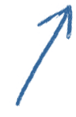
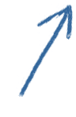
-

Changed region(s): [[0.1842, 0.7949, 0.3158, 0.9231]]

diff --git a/components/desktop.js b/components/desktop.js
@@ -25,6 +25,8 @@ define(['less!./desktop', 'pages/rental', 'pages/reservation'], function() {
 		var _rentals = {};
 		var _settings = {};
 		var _icons = {};
+		
+		var _timerForIntroBlob;
 
 		function updateUI() {
     		if (_setNeedsLayout)
@@ -215,7 +217,7 @@ define(['less!./desktop', 'pages/rental', 'pages/reservation'], function() {
 		    var defaults = {
     		    positions: {},
     		    orderAutomatically: false,
-    		    background: 'snow.png'
+    		    background: 'white-leather.png'
 		    };
 			
 			_settings = {};
@@ -365,12 +367,38 @@ define(['less!./desktop', 'pages/rental', 'pages/reservation'], function() {
             });
 	            
 	    };
+	    
+	    function clearIntroBlob() {
+            // Clear intro blob
+            var theDiv = _element.find('.introText'); 
+			theDiv.css({backgroundImage:'none'});
+            
+            theDiv = _element.find('.introArrow'); 
+			theDiv.css({backgroundImage:'none'});
+			
+			theDiv = _element.find('.introBike');
+			theDiv.css({backgroundImage:'none'});
+
+			theDiv = _element.find('.introMan');
+			theDiv.css({backgroundImage:'none'});
+
+			theDiv = _element.find('.introSquash');
+			theDiv.css({backgroundImage:'none'});
+
+			theDiv = _element.find('.introHouse');
+			theDiv.css({backgroundImage:'none'});
+			
+			theDiv = _element.find('.introCar');
+			theDiv.css({backgroundImage:'none'});
+		    
+		    clearTimeout(_timerForIntroBlob);
+	    }
 				
 		function init() {
 				
 			var template = 
 				'<div class="desktop">'+
-					'<div class="addButton"></div><div class="closeButton"></div><div class="watermark">'+
+					'<div class="introText"></div><div class="introArrow"></div><div class="introHouse"></div><div class="introMan"></div><div class="introSquash"></div><div class="introBike"></div><div class="introCar"></div><div class="addButton"></div><div class="closeButton"></div><div class="watermark">'+
 					'</div>'+
 				'</div>';
 			
@@ -388,16 +416,15 @@ define(['less!./desktop', 'pages/rental', 'pages/reservation'], function() {
             _element.on(isTouch() ? 'touchstart' : 'mousedown', function(event) {
                 _element.find('.title').removeClass('selected');
                 
-                //event.preventDefault();
-                //event.stopPropagation();
-                
+                clearIntroBlob();
+			                
              }); 
              
             _element.find('.addButton').on("mousedown touchstart", function(event) {
 
         		$.mobile.changePage('../pages/rental.html');
 	        });
-	        
+	         
 	        
             _element.find('.closeButton').on("mousedown touchstart", function(event) {
                 self.editMode(false);
@@ -430,9 +457,11 @@ define(['less!./desktop', 'pages/rental', 'pages/reservation'], function() {
     			$('body').spin(false);
 				$('.desktop').css('background-image', 'url(' + '../images/patterns/' + _settings.background + ')');
 				
-				if (_rentals.length == 0)
-					// No objects created, enter edit mode 
+				if (Object.keys(_rentals).length == 0) {
+					// No objects created, enter edit mode so user can add objects
                 	self.editMode(true);
+                	ShowIntroBlob();
+                }
 				else { 
                 	placeRentals();
 					updateRentalAvailability();			
@@ -568,7 +597,40 @@ define(['less!./desktop', 'pages/rental', 'pages/reservation'], function() {
 
     		$.mobile.changePage('../pages/reservation.html', {pageData:{reservation:reservation}})
 		}
-		
+				
+		function ShowIntroBlob() {
+			var introTextDiv = _element.find('.introText'); 
+			var introArrowDiv = _element.find('.introArrow');
+			var introHouseDiv =  _element.find('.introHouse');
+			var introManDiv =  _element.find('.introMan');
+			var introSquashDiv =  _element.find('.introSquash');
+			var introBikeDiv = _element.find('.introBike'); 
+			var introCarDiv =  _element.find('.introCar');
+
+			introTextDiv.css({backgroundImage:'url(../images/intro-text.png)'});
+			introArrowDiv.css({backgroundImage:'url(../images/intro-arrow.png)'});
+			
+			introHouseDiv.css({backgroundImage:'url(../images/intro-object-house.png)'});
+			introManDiv.css({backgroundImage:'url(../images/intro-object-man.png)'});
+			introSquashDiv.css({backgroundImage:'url(../images/intro-object-squash.png)'});
+			introBikeDiv.css({backgroundImage:'url(../images/intro-object-bike.png)'});
+			introCarDiv.css({backgroundImage:'url(../images/intro-object-car.png)'});
+
+			_timerForIntroBlob = setInterval(function() {
+				introHouseDiv.transition({ y: '-=15', duration:200, easing:'easeOutQuart', delay:500}).transition({ y: '+=15', duration:200, easing:'easeInQuint'});
+				introManDiv.transition({ y: '-=15', duration:200, easing:'easeOutQuart', delay:600}).transition({ y: '+=15', duration:200, easing:'easeInQuint'});
+				introSquashDiv.transition({ y: '-=15', duration:200, easing:'easeOutQuart', delay:700}).transition({ y: '+=15', duration:200, easing:'easeInQuint'});
+				introBikeDiv.transition({ y: '-=15', duration:200, easing:'easeOutQuart', delay:800}).transition({ y: '+=15', duration:200, easing:'easeInQuint'});			
+				introCarDiv.transition({ y: '-=15', duration:200, easing:'easeOutQuart', delay:900}).transition({ y: '+=15', duration:200, easing:'easeInQuint'});
+
+				introArrowDiv.transition({ x:'+=3', y:'-=4', duration:200, delay:1000}).transition({ x: '-=3', y:'+=4', duration:200});
+				introArrowDiv.transition({ x:'+=3', y:'-=4', duration:200, delay:0}).transition({ x: '-=3', y:'+=4', duration:200});
+				introArrowDiv.transition({ x:'+=3', y:'-=4', duration:200, delay:0}).transition({ x: '-=3', y:'+=4', duration:200});
+
+		  	}, 3000);
+		  	
+		}
+
 		function BounceButtons() {	
 					
 			_element.find('.closeButton').transition({ scale: 2 }, 300);
@@ -603,7 +665,8 @@ define(['less!./desktop', 'pages/rental', 'pages/reservation'], function() {
 			// Remove buttons from desktop
 			_element.find('.addButton').text('');
 			_element.find('.closeButton').text('');
-
+			
+			clearIntroBlob();
             
             _element.removeClass('editMode');
 
@@ -702,6 +765,7 @@ define(['less!./desktop', 'pages/rental', 'pages/reservation'], function() {
                 }
                 
                 title.addClass('selected');
+                
                 
                 $(document).on(isTouch() ? 'touchmove.desktop-dragdrop' : 'mousemove.desktop-dragdrop', function(event){
 

diff --git a/components/desktop.less b/components/desktop.less
@@ -21,6 +21,63 @@
 	background: no-repeat center;
 }
 
+.desktop .introText {
+	position: absolute;
+    top:80px;left:auto;right:90px;bottom:auto;
+    width: 500px;
+    height: 200px;
+	background: no-repeat center;
+}
+
+.desktop .introArrow {
+	position: absolute;
+    top:50px;left:auto;right:20px;bottom:auto;
+    width: 200px;
+    height: 110px;
+	background: no-repeat center;
+}
+
+.desktop .introHouse {
+	position: absolute;
+    top:243px;left:auto;right:503px;bottom:auto;
+	opacity:0.8;
+	width: 94px;
+    height: 58px;
+}
+
+.desktop .introMan {
+	position: absolute;
+    top:243px;left:auto;right:415px;bottom:auto;
+	opacity:0.8;
+	width: 59px;
+    height: 57px;
+}
+
+.desktop .introSquash {
+	position: absolute;
+    top:243px;left:auto;right:336px;bottom:auto;
+	opacity:0.8;
+	width: 58px;
+    height: 58px;
+}
+
+.desktop .introBike {
+	position: absolute;
+    top:243px;left:auto;right:235px;bottom:auto;
+	opacity:0.8;
+	width: 88px;
+    height: 58px;
+}
+
+.desktop .introCar {
+	position: absolute;
+    top:255px;left:auto;right:80px;bottom:auto;
+	opacity:0.8;
+	width: 143px;
+    height: 45px;
+}
+
+
 .desktop .background {
 	position:absolute;
 	left:0px;top:0px;right:0px;bottom:0px;

diff --git a/pages/rental.js b/pages/rental.js
@@ -26,7 +26,7 @@
                 _elements.name.val(_rental.name);
                 _elements.description.val(_rental.description);
                 _elements.depth.val(_rental.depth && _rental.depth > 1 ? _rental.depth : '');
-                _elements.available.val((_rental.available == 1) ? 'on' : 'off').slider("refresh");
+                _elements.available.val((_rental.available == 1 || _rental.available == undefined) ? 'on' : 'off').slider("refresh");
 
                 if (_rental.category_id) {
                     var category = _categoriesByID[_rental.category_id];
@@ -144,7 +144,7 @@
                         elements.text.text(category.name);
                         elements.link.data('category', category);
 
-                        elements.link.on('tap', function(event) {
+                        elements.link.on('tap', function(event) { 
                         
                             var category = $(this).data('category');
 

diff --git a/pages/rental.html b/pages/rental.html
@@ -10,12 +10,13 @@
         <div data-role="button-row">
             <img src="../images/app-icon.png"/>
         </div>
-        
+         
         <ul data-hook="listview" data-role="listview" data-inset="true">
 
             <li>        
 	            <label>Namn</label>
 	            <input data-hook="name" type="text" value="" placeholder="Namn" title="">
+	            <label class="helptext"><strong>Exempel</strong> 'Bana 1', 'Lisa', 'Mini Cooper (ADE 234)'</label>
             </li>
             
             <li>
@@ -47,6 +48,7 @@
                     <a data-hook="category.button"  data-role="button" data-icon="arrow-d" data-iconpos="right" data-theme="c">
                         <span data-hook="category.text">&nbsp</span>
                     </a>
+                    <label class="helptext"><strong>Exempel</strong> 'Squash', 'Klippning', 'Bil (liten)'</label>
                 </div>
             </li>
             

diff --git a/pages/reservation.html b/pages/reservation.html
@@ -97,9 +97,9 @@
         </div>
 
 	    <div data-role="button-row">
-        	<a data-hook="back" data-role="button" data-inline="true" data-theme="a">Tillbaka</a>
+        	<a data-hook="back" data-role="button" data-inline="true" data-icon="arrow-l">Tillbaka</a>
         	<a data-hook="save" data-role="button" data-inline="true" data-theme="g">Spara</a>
-        	<a data-hook="remove" data-role="button" data-inline="true" data-theme="r">Tag bort</a>
+        	<a data-hook="remove" data-role="button" data-inline="true" data-theme="r">Radera</a>
 	    </div>
 
         

diff --git a/less/styles.less b/less/styles.less
@@ -25,6 +25,14 @@ label.ui-input-text {
 		
 }
 
+label.helptext {
+		//color: @xxxx-lightGrayColor;
+		color: @lightGrayColor;
+		font-size: smaller;
+		font-style: normal;
+		font-weight: 100;
+		padding-left: 2em;
+}
 
 div.ui-input-text {
 	.border-radius(1.2em);

diff --git a/pages/rental.less b/pages/rental.less
@@ -48,5 +48,6 @@
     .ui-block-a, .ui-block-b {
         padding: 5px;
     }
+
 	
 }
